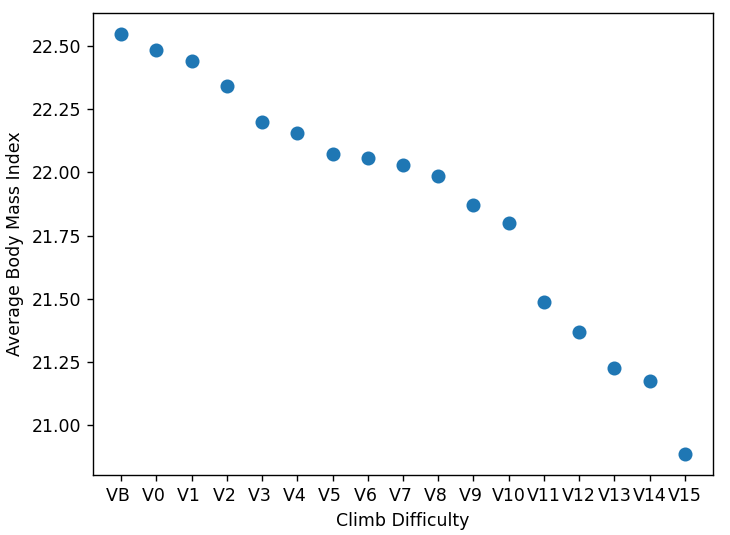
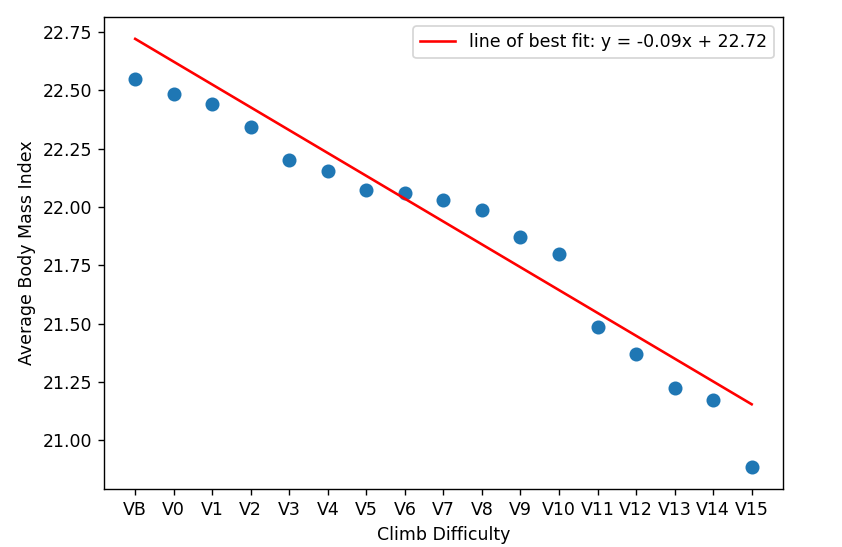
bmiAvg
added code for linear regression line and plot

diff --git a/py and excel/avgBmi.py b/py and excel/avgBmi.py
@@ -27,8 +27,8 @@ file.close()
 # Gathers Ascent data of each user from csv file
 #  scrapes: user id and grade_id
 ##### to use a data file with more data points, comment line 30 and uncomment line 31 #####
-file1 = open('ascent100k.csv', encoding="utf8")
-# file1 = open('ascent750k.csv', encoding="utf8")
+# file1 = open('ascent100k.csv', encoding="utf8")
+file1 = open('ascent750k.csv', encoding="utf8")
 csvreader1 = csv.reader(file1)
 
 header1 = []
@@ -186,7 +186,51 @@ y_plot = [bmi_v[0], bmi_v[1], bmi_v[2], bmi_v[3], bmi_v[4], bmi_v[5], bmi_v[6], 
 for i in range(17):
     print("Average BMI of ", x_plot[i], " climber: ", "%.3f" % bmi_v[i], "  (from ", count_v[i], " climbers)")
 
-# Scatter plot
+# find line of best fit 
+# following formula: slope = sum((x-x_a)(y-y_a))/sum((x-x_a)^2)
+#   and y_a = a(x_a) + b 
+xvar = [0,1,2,3,4,5,6,7,8,9,10,11,12,13,14,15,16,17]
+yvar = y_plot
+x_a = 0
+y_a = 0
+for i in xvar:
+    x_a = x_a+i
+x_a =  x_a/17
+for i in yvar:
+    y_a = y_a+i
+y_a =  y_a/17
+
+diffxx_a = []
+diffyy_a = []
+for i in range(17):
+    diffxx_a.append(xvar[i]-x_a)
+    diffyy_a.append(yvar[i]-y_a)
+
+multDenom = []
+multNumer = []
+for i in range(17):
+    multDenom.append(diffxx_a[i]*diffxx_a[i])
+    multNumer.append(diffxx_a[i]*diffyy_a[i])
+
+sumMultDenom = 0
+sumMultNumer = 0
+for i in range(17):
+    sumMultDenom = sumMultDenom + multDenom[i]
+    sumMultNumer = sumMultNumer + multNumer[i]
+
+slope = sumMultNumer/sumMultDenom
+yintercept = y_a-(slope*x_a)
+yend = (slope*17)+yintercept
+
+slope = round(slope,2)
+yintercept = round(yintercept,2)
+lineLabel = "y = " + str(slope) + "x + " + str(yintercept)
+print(lineLabel)
+# draw line of best fit
+plt.plot([0,16], [yintercept,yend], color = 'red', label="line of best fit: " + lineLabel)
+plt.legend(loc="upper right")
+
+# plot Scatter
 plt.scatter(x_plot, y_plot, s=50)
 plt.ylabel('Average Body Mass Index')
 plt.xlabel('Climb Difficulty')
